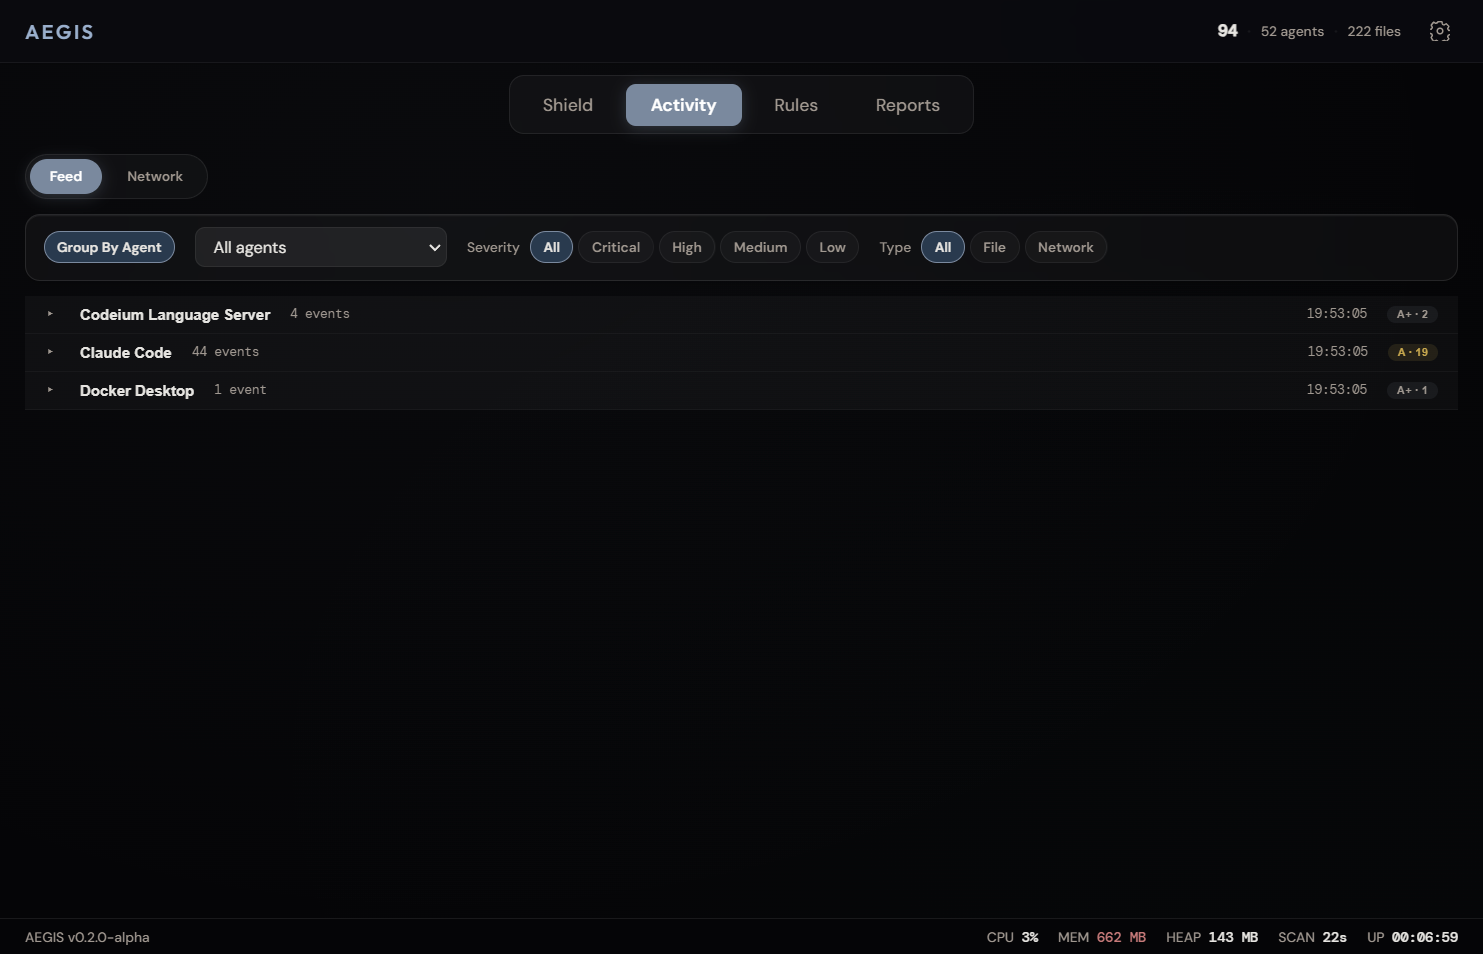
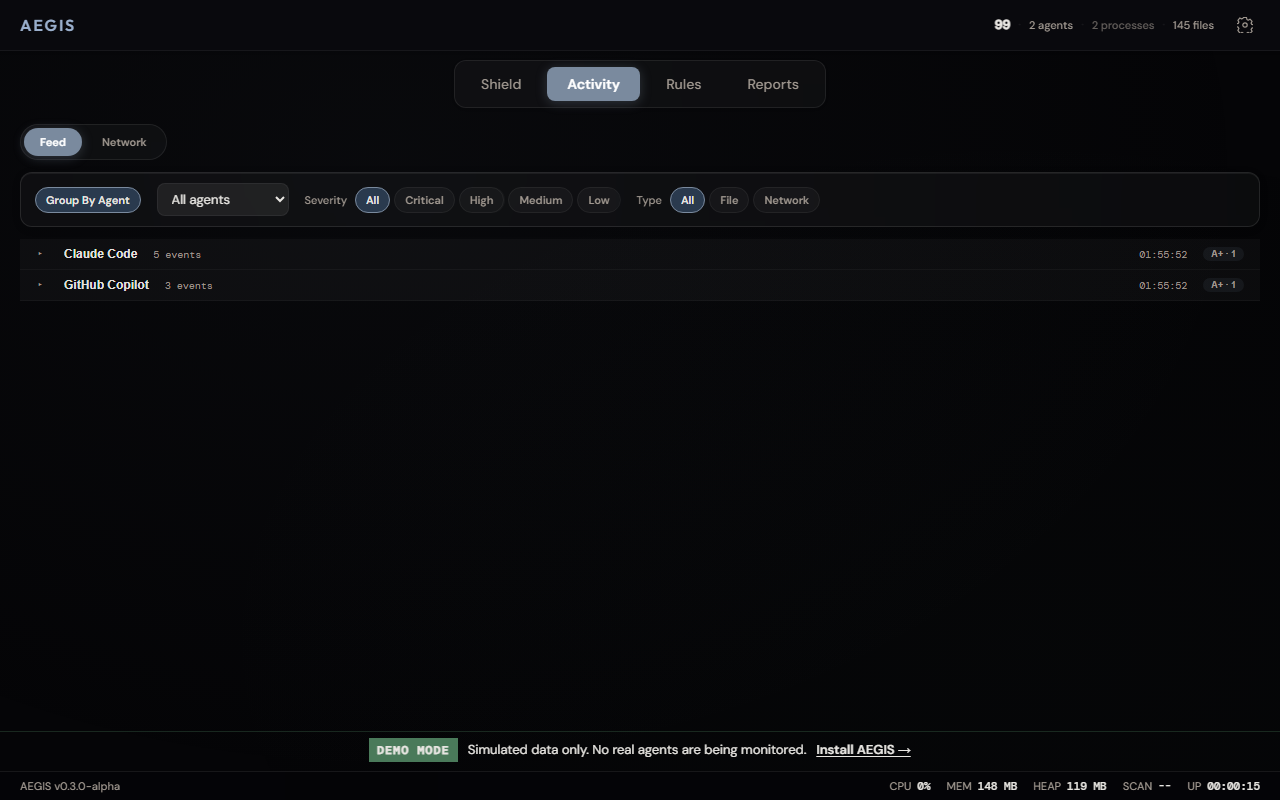
docs: polish README, fresh screenshots, update contributors and changelog
- Retake 6 screenshots with Dark HC theme (demo mode, PII-free)
- Mark i18n as done in roadmap (PR #53)
- Add i18n feature section to README
- Update travisbreaks contributor emojis (code, a11y, i18n, agents)
- Add changelog entries for PRs #50, #51, #52, #53, #55
- Security audit: no leaked secrets, paths, or PII in git history

diff --git a/README.md b/README.md
@@ -156,6 +156,11 @@ No Node.js required. Download, install, run.
 - JSON, CSV, HTML report generation
 - Audit logging (JSONL, daily rotation, 30-day retention)
 
+**Internationalization**
+- i18n system with English base (110+ translated strings)
+- Language selector in Settings
+- Community translations welcome ([contribute a language](https://github.com/antropos17/Aegis/issues))
+
 **CLI**
 ```bash
 aegis --scan-json    # JSON output for scripts
@@ -287,7 +292,7 @@ npm run test:coverage # coverage report
 - [ ] Browser extension for web-based AI agents
 - [ ] Cross-device AI activity correlation
 - [ ] Auto-update mechanism
-- [ ] i18n / localization
+- [x] i18n / localization (PR #53)
 
 [📋 Full roadmap on GitHub Issues](https://github.com/antropos17/Aegis/issues)
 
@@ -300,7 +305,7 @@ npm run test:coverage # coverage report
     <td align="center"><a href="https://github.com/antropos17"><img src="https://github.com/antropos17.png" width="80px;" alt=""/><br/><sub><b>Ruslan Murtuzaliyev</b></sub></a><br/>💻 📖 🚇 🎨</td>
     <td align="center"><a href="https://github.com/ElshadHu"><img src="https://github.com/ElshadHu.png" width="80px;" alt=""/><br/><sub><b>Elshad Humbatli</b></sub></a><br/>💻 🧪</td>
     <td align="center"><a href="https://github.com/skmelendez"><img src="https://github.com/skmelendez.png" width="80px;" alt=""/><br/><sub><b>Steven Melendez</b></sub></a><br/>💻 🤔</td>
-    <td align="center"><a href="https://github.com/travisbreaks"><img src="https://github.com/travisbreaks.png" width="80px;" alt=""/><br/><sub><b>travisbreaks</b></sub></a><br/>📦</td>
+    <td align="center"><a href="https://github.com/travisbreaks"><img src="https://github.com/travisbreaks.png" width="80px;" alt=""/><br/><sub><b>travisbreaks</b></sub></a><br/>💻 ♿ 🌍 📦</td>
   </tr>
 </table>
 

diff --git a/CHANGELOG.md b/CHANGELOG.md
@@ -7,12 +7,16 @@ The format is based on [Keep a Changelog](https://keepachangelog.com/en/1.1.0/).
 ## [Unreleased]
 
 ### Added
-- Browser-only demo mode with simulated agent data — works without Electron (PR #10)
+- Internationalization system with English base (#53) — @travisbreaks
+- Keyboard shortcuts and accessibility improvements (#51) — @travisbreaks
+- Browser-only demo mode (#52) — @travisbreaks
+- 8 new agent signatures: Jules, Aide, Open WebUI, AnythingLLM, KoboldCPP, GPT Pilot, ScreenPipe, Letta (#50) — @travisbreaks
+- Unique agent count vs process count in header (#55)
 - Toast notification system — success/warning/error toasts with auto-dismiss (PR #15)
 - DemoBanner component for demo mode indicator
 - Development guide (docs/DEVELOPMENT.md)
-- 8 new agent signatures (98 → 106 agents)
 - 28 new tests (408 → 436 tests across 25 files)
+- GPG commit signing
 
 ### Fixed
 - CSS duplicate rule in PermissionsGrid (PR #52)
